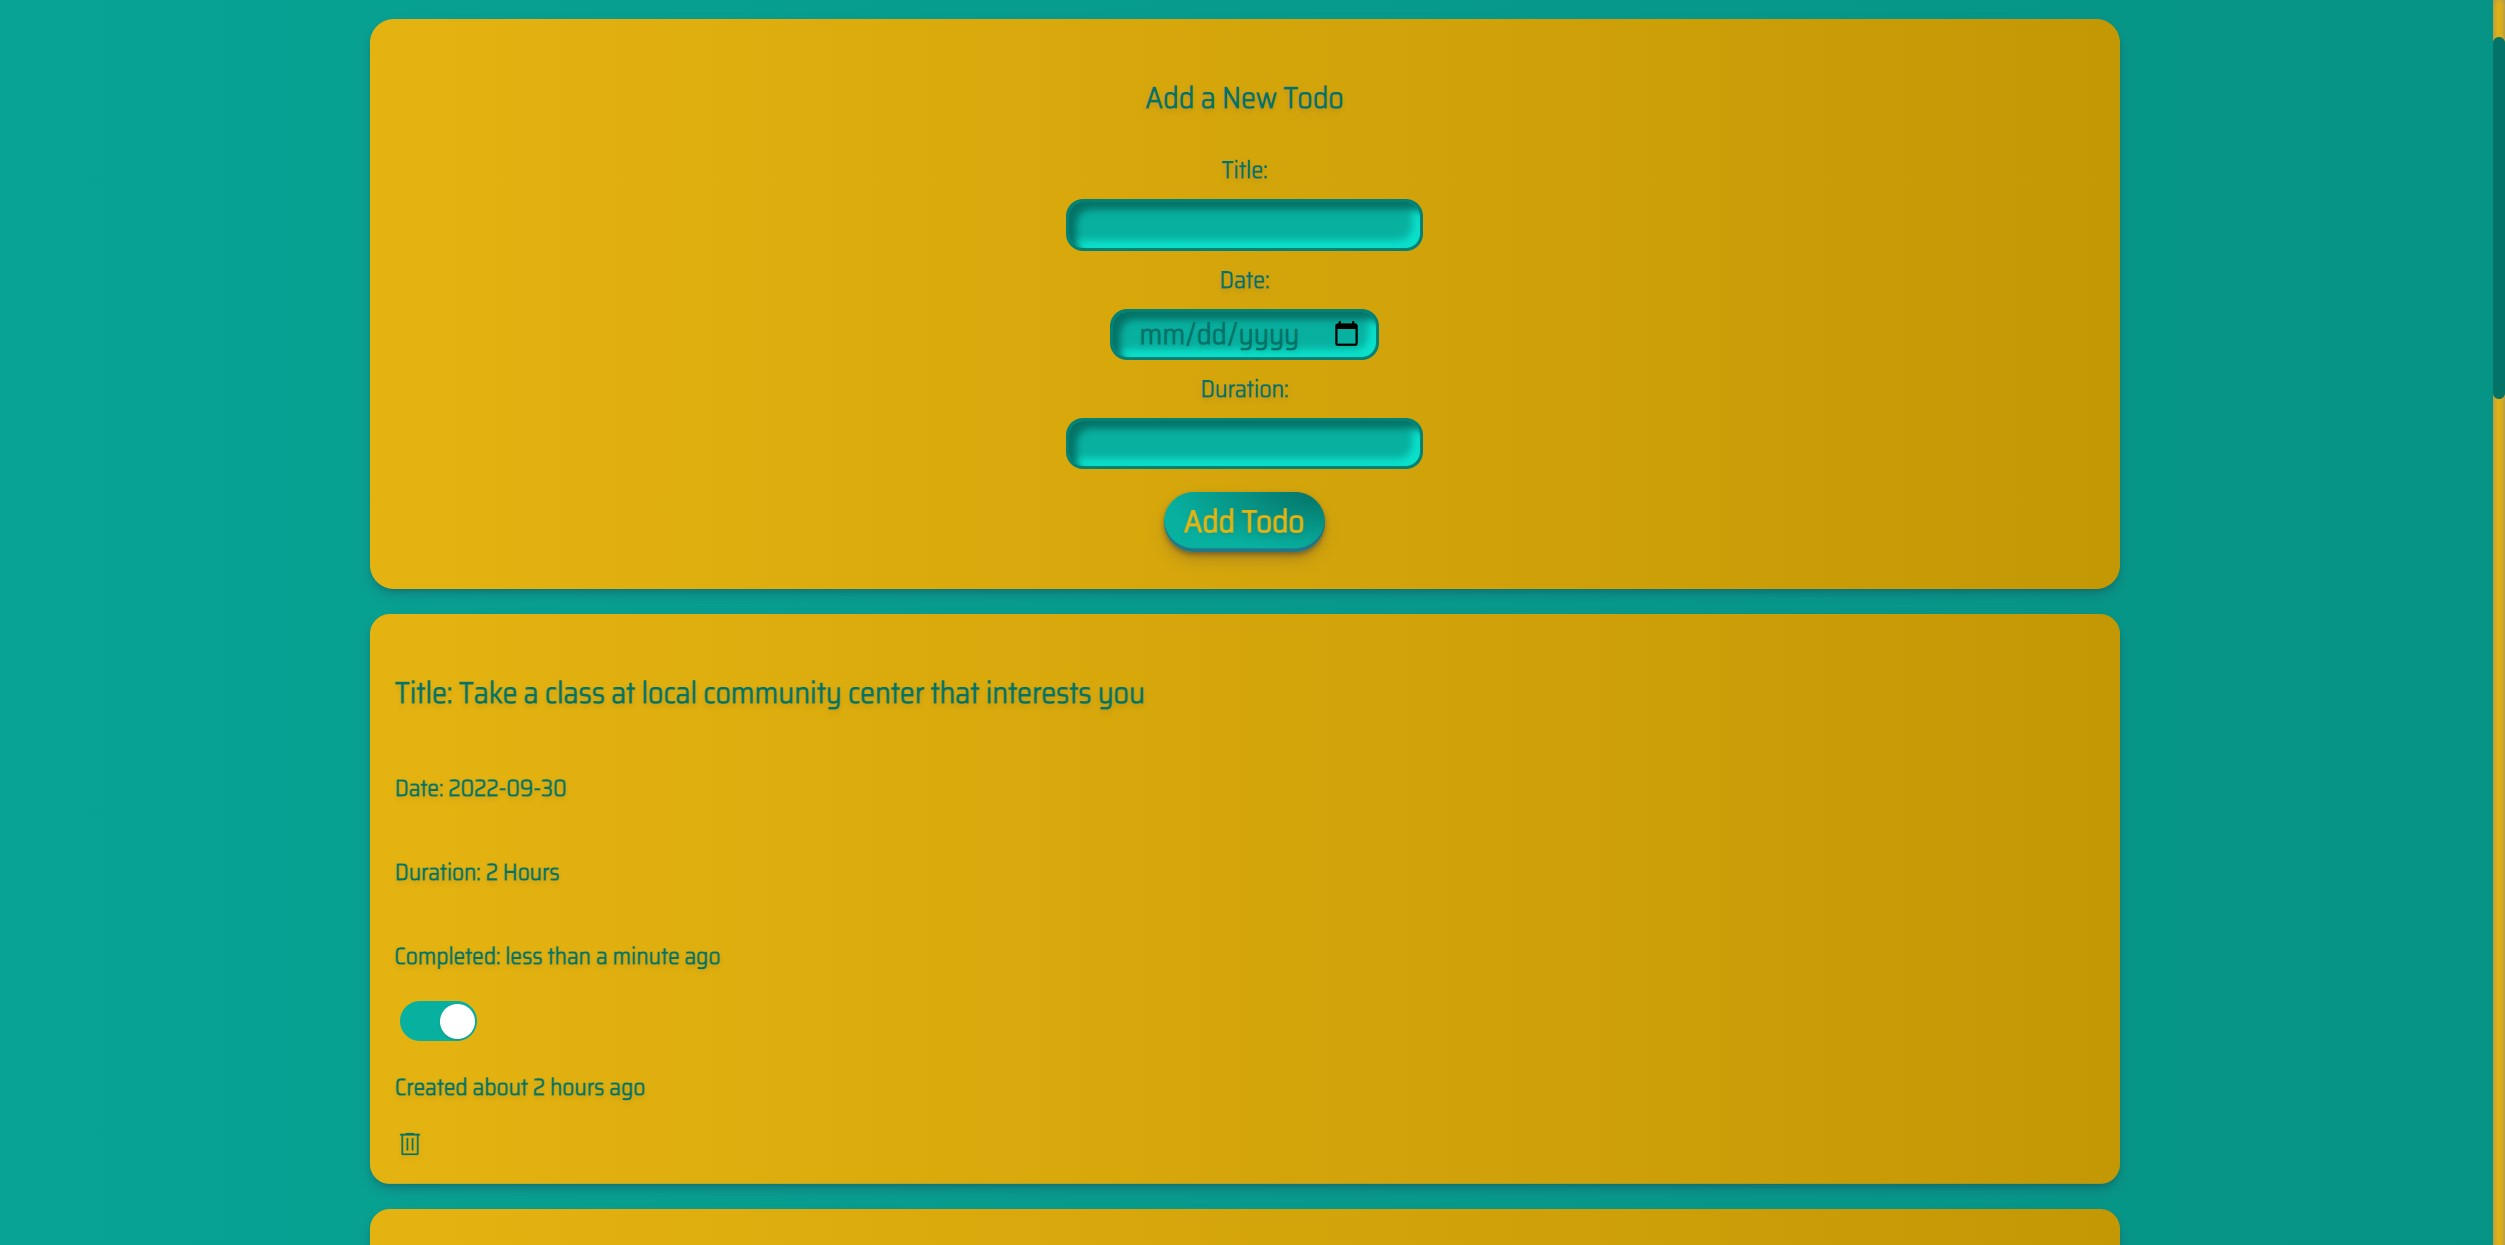
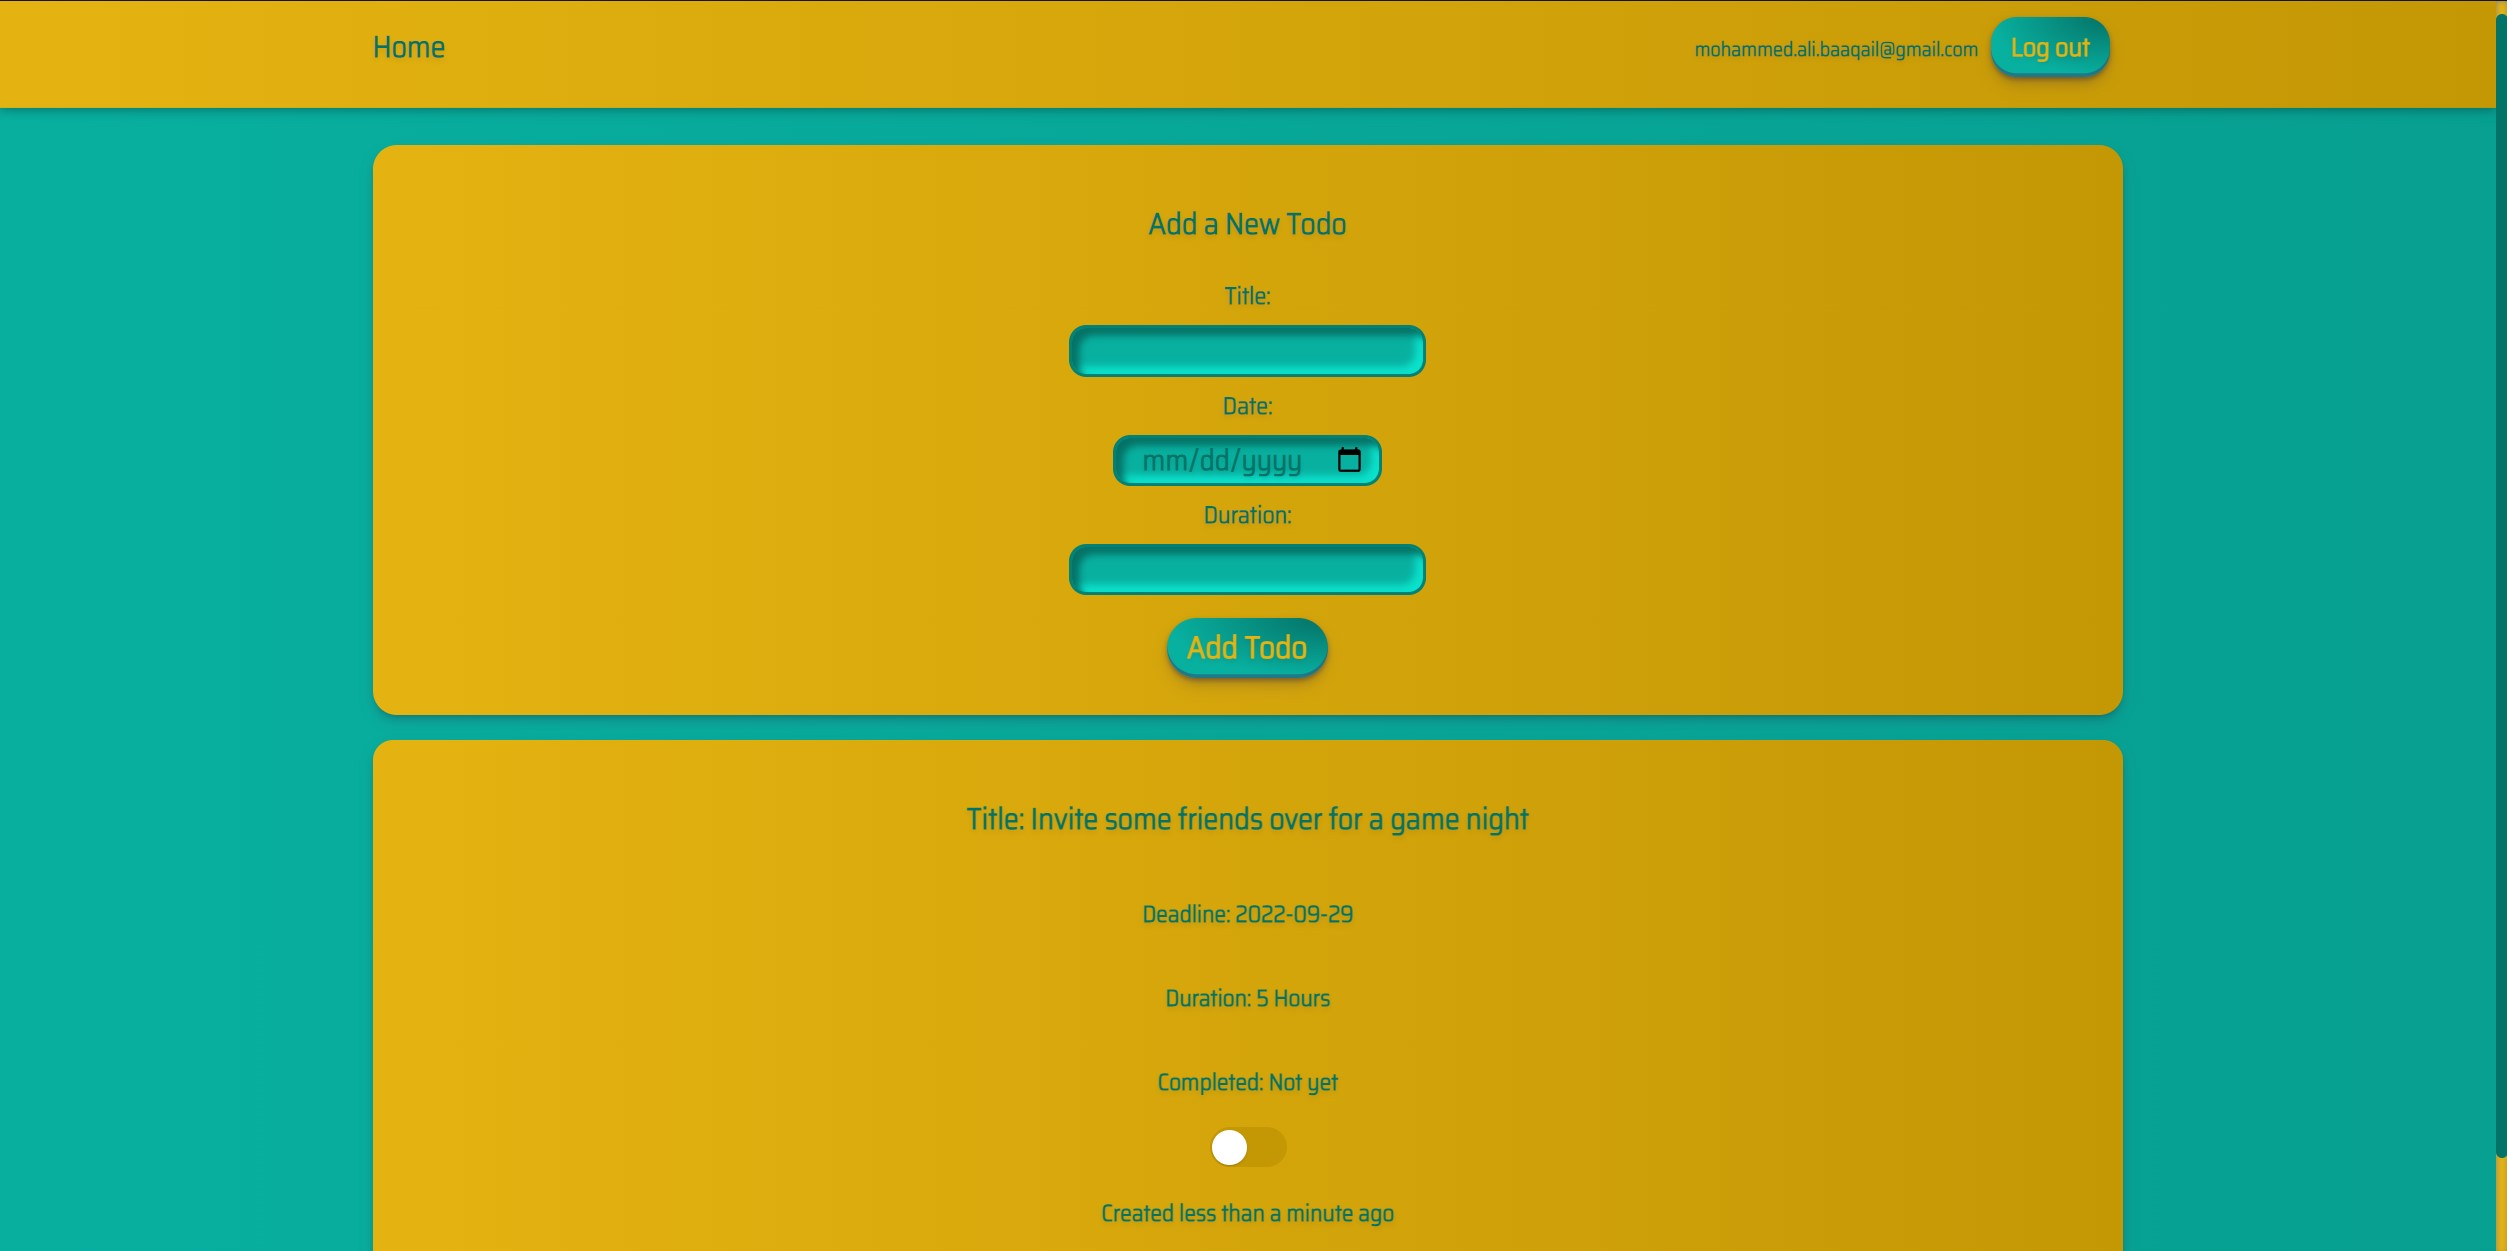
.

diff --git a/index.html b/index.html
@@ -27,6 +27,29 @@
   <link rel="stylesheet" href="https://cdnjs.cloudflare.com/ajax/libs/animate.css/4.1.1/animate.min.css" />
 </head>
 <body>
+  <div class="dropdown">
+    <button class="dropbtn">Dropdown</button>
+    <div class="dropdown-content">
+      <option value="1">Link 1</option>
+      <option  href="#">Link 2</option>
+      <option href="#">Link 3</option>
+    </div>
+  </div>
+  <select id="mySelect" onchange="changeBackground()">
+    <option value=../assets/bg-dark-1.jpg>1</option>
+    <option value=../assets/bg-dark-2.jpg>2</option>
+    <option value=../assets/bg-dark-3.jpg>3</option>
+    <option value=../assets/bg-dark-4.jpg>4</option>
+    <option value=../assets/bg-dark-5.jpg>5</option>
+    <option value=../assets/bg-dark-6.jpg>6</option>
+    <option value=../assets/bg-dark-7.jpg>7</option>
+    <option value=../assets/bg-dark-8.jpg>8</option>
+    <option value=../assets/bg-dark-9.jpg>9</option>
+    <option value=../assets/bg-dark-10.jpg>10</option>
+    <option selected="selected" value=''>Select Background</option>
+
+  </select>
+  
 <button class="color-button"></button>
 <div class="color-pickers ">
 <input type="color" id="about-me-clr" >
@@ -273,7 +296,7 @@
                   
                 </div>
                 <div class="card-image">
-                <img class="zoom" src="./assets/projects-imgs/project11-1.jpg" alt="" class="card-img">
+                <img class="zoom" src="./assets/projects-imgs/project11-2.jpg" alt="" class="card-img">
               </div>
               <div class="card-content">
                 <h2 class="name">MERN TODO / MongoDB - Express.js - React.js - Node.js</h2>

diff --git a/css/style.scss b/css/style.scss
@@ -7,6 +7,7 @@
   --about-me-clr: #ffbf00; 
   --skills-clr: #ff0000; 
   --work-clr: #009dff; 
+  --background: url(../assets/bg-dark-4.jpg) !important;
 }
 * {
   margin: 0;
@@ -109,7 +110,7 @@ html {
 
 body {
 
-  background-image:  url(../assets/bg-dark-4.jpg)!important;
+  background-image:  var(--background);
   background-size: cover !important;
   background-color: black !important;
   background-attachment: fixed;
@@ -745,6 +746,30 @@ h3 {
 .photo-box:hover .content .personal {
   opacity: 0;
 }
+
+
+#mySelect {
+  position: fixed;
+  display: inline-block;
+  z-index: 9999;
+  right:0px;
+  top:0px;
+  background-color: #202020;
+  color: white;
+  padding: 16px;
+  height: 69px;
+  font-size: 16px;
+  border: none;
+  // border-left: #ddd solid 1px;
+
+  option{
+    background-color:#242424 ;
+    &:focus{
+      background-color: #fd0000;
+    }
+  }
+}
+
 
 .color-picker {
   z-index: 111;

diff --git a/css/style.css b/css/style.css
@@ -5,6 +5,7 @@
   --about-me-clr: #ffbf00;
   --skills-clr: #ff0000;
   --work-clr: #009dff;
+  --background: url(../assets/bg-dark-4.jpg) !important;
 }
 
 * {
@@ -123,7 +124,7 @@ html {
 }
 
 body {
-  background-image: url(../assets/bg-dark-4.jpg) !important;
+  background-image: var(--background);
   background-size: cover !important;
   background-color: black !important;
   background-attachment: fixed;
@@ -778,6 +779,28 @@ h3 {
 
 .photo-box:hover .content .personal {
   opacity: 0;
+}
+
+#mySelect {
+  position: fixed;
+  display: inline-block;
+  z-index: 9999;
+  right: 0px;
+  top: 0px;
+  background-color: #202020;
+  color: white;
+  padding: 16px;
+  height: 69px;
+  font-size: 16px;
+  border: none;
+}
+
+#mySelect option {
+  background-color: #242424;
+}
+
+#mySelect option:focus {
+  background-color: #fd0000;
 }
 
 .color-picker {

diff --git a/css/dist/style.css b/css/dist/style.css
@@ -5,6 +5,7 @@
   --about-me-clr: #ffbf00;
   --skills-clr: #ff0000;
   --work-clr: #009dff;
+  --background: url(../assets/bg-dark-4.jpg) !important;
 }
 
 * {
@@ -100,7 +101,7 @@ html {
 }
 
 body {
-  background-image: url(../assets/bg-dark-4.jpg) !important;
+  background-image: var(--background);
   background-size: cover !important;
   background-color: black !important;
   background-attachment: fixed;
@@ -597,6 +598,26 @@ h3 {
 
 .photo-box:hover .content .personal {
   opacity: 0;
+}
+
+#mySelect {
+  position: fixed;
+  display: inline-block;
+  z-index: 9999;
+  right: 0px;
+  top: 0px;
+  background-color: #202020;
+  color: white;
+  padding: 16px;
+  height: 69px;
+  font-size: 16px;
+  border: none;
+}
+#mySelect option {
+  background-color: #242424;
+}
+#mySelect option:focus {
+  background-color: #fd0000;
 }
 
 .color-picker {

diff --git a/js/dist/script.dev.js b/js/dist/script.dev.js
@@ -287,3 +287,16 @@ resetButton.addEventListener("click", function () {
   localStorage.removeItem("color3");
   window.location.reload(false);
 }); // [end] for changing page colors ---------------------------------------------
+
+function changeBackground() {
+  var background = document.getElementById("mySelect").value;
+  var background = document.getElementById("mySelect").value;
+
+  if (background) {
+    document.body.style.backgroundImage = "url('" + background + "')";
+    localStorage.setItem("background", "url('" + background + "')");
+  }
+}
+
+console.log(localStorage.getItem("background"));
+document.body.style.backgroundImage = localStorage.getItem("background");

diff --git a/js/script.js b/js/script.js
@@ -348,3 +348,21 @@ resetButton.addEventListener("click", () => {
   window.location.reload(false);
 });
 // [end] for changing page colors ---------------------------------------------
+
+
+function changeBackground(){
+
+  var background = document.getElementById("mySelect").value;
+  var background = document.getElementById("mySelect").value;
+  if(background){
+    
+    document.body.style.backgroundImage = "url('"+background+"')";
+     localStorage.setItem("background", "url('"+background+"')");
+  }
+
+
+
+
+}
+console.log(localStorage.getItem("background"));
+document.body.style.backgroundImage = localStorage.getItem("background");
